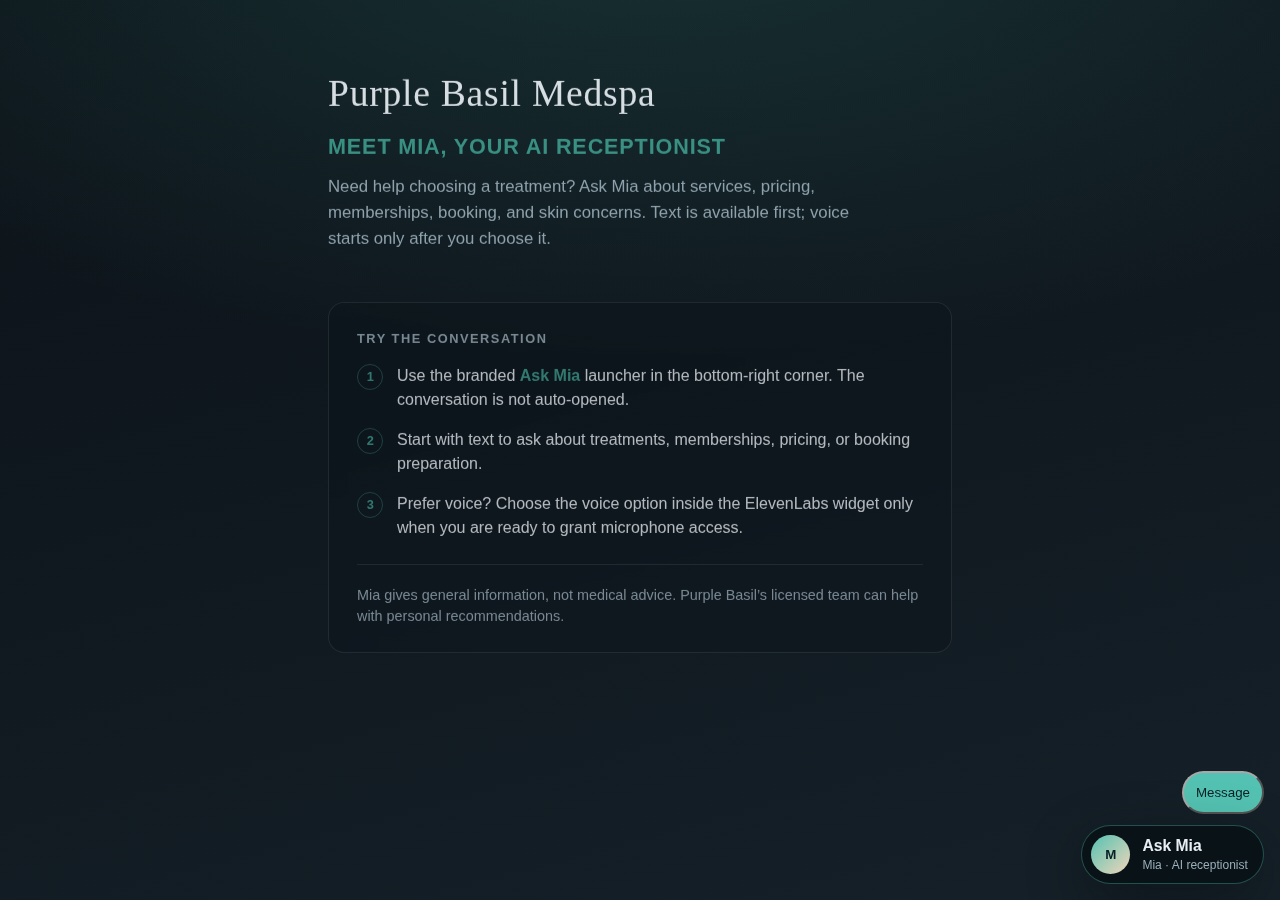
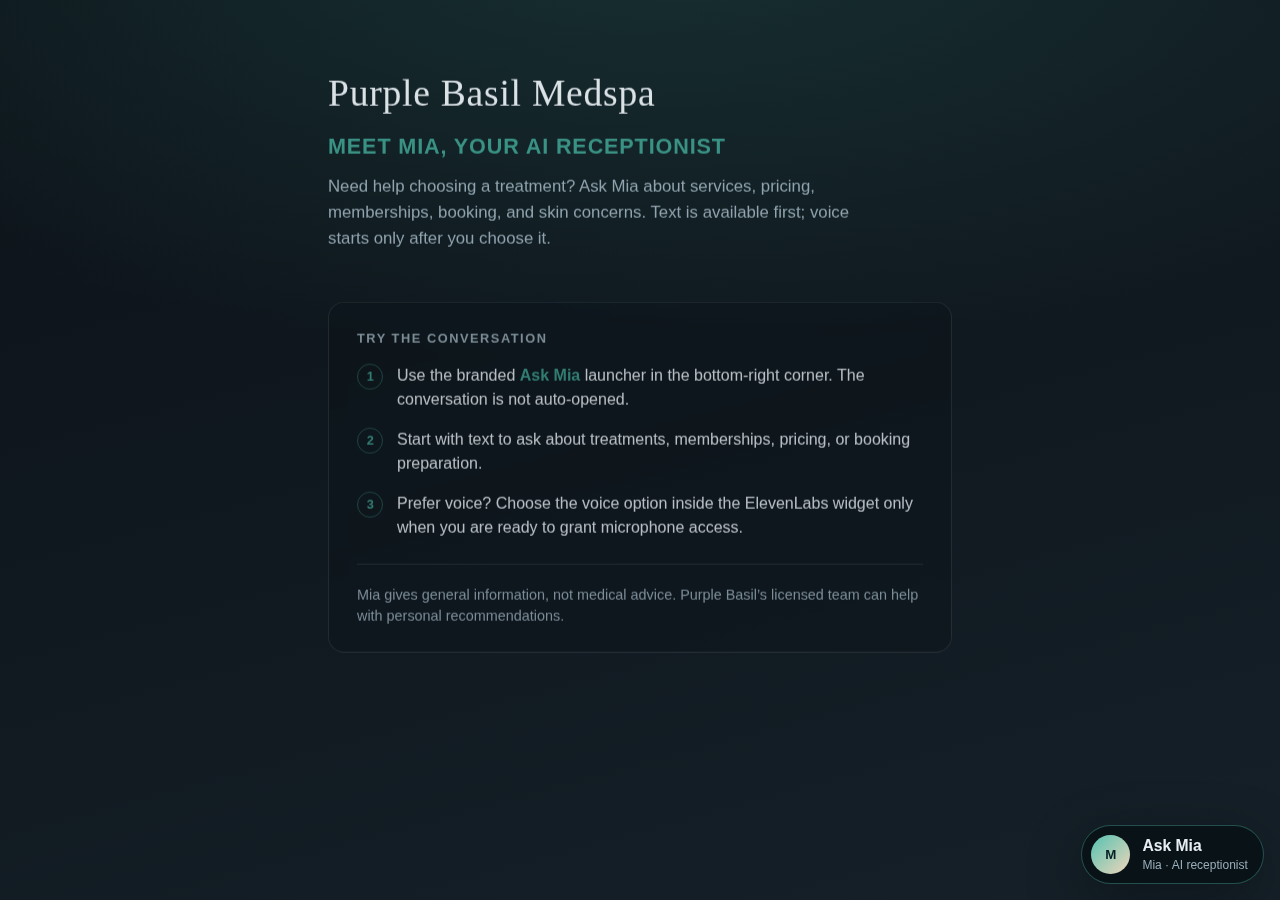
fix: suppress vendor collapsed widget entry

Changed region(s): [[0.9062, 0.84, 1.0, 0.9022]]

diff --git a/styles.css b/styles.css
@@ -143,6 +143,18 @@ elevenlabs-convai[data-managed-by="limitless-voice-widget-launcher"] {
   z-index: 40;
 }
 
+elevenlabs-convai[data-managed-by="limitless-voice-widget-launcher"][data-limitless-entry-state="suppressed"] {
+  visibility: hidden;
+  opacity: 0;
+  pointer-events: none;
+}
+
+elevenlabs-convai[data-managed-by="limitless-voice-widget-launcher"][data-limitless-entry-state="open"] {
+  visibility: visible;
+  opacity: 1;
+  pointer-events: auto;
+}
+
 .voice-widget-shell {
   position: fixed;
   right: max(1rem, env(safe-area-inset-right));
